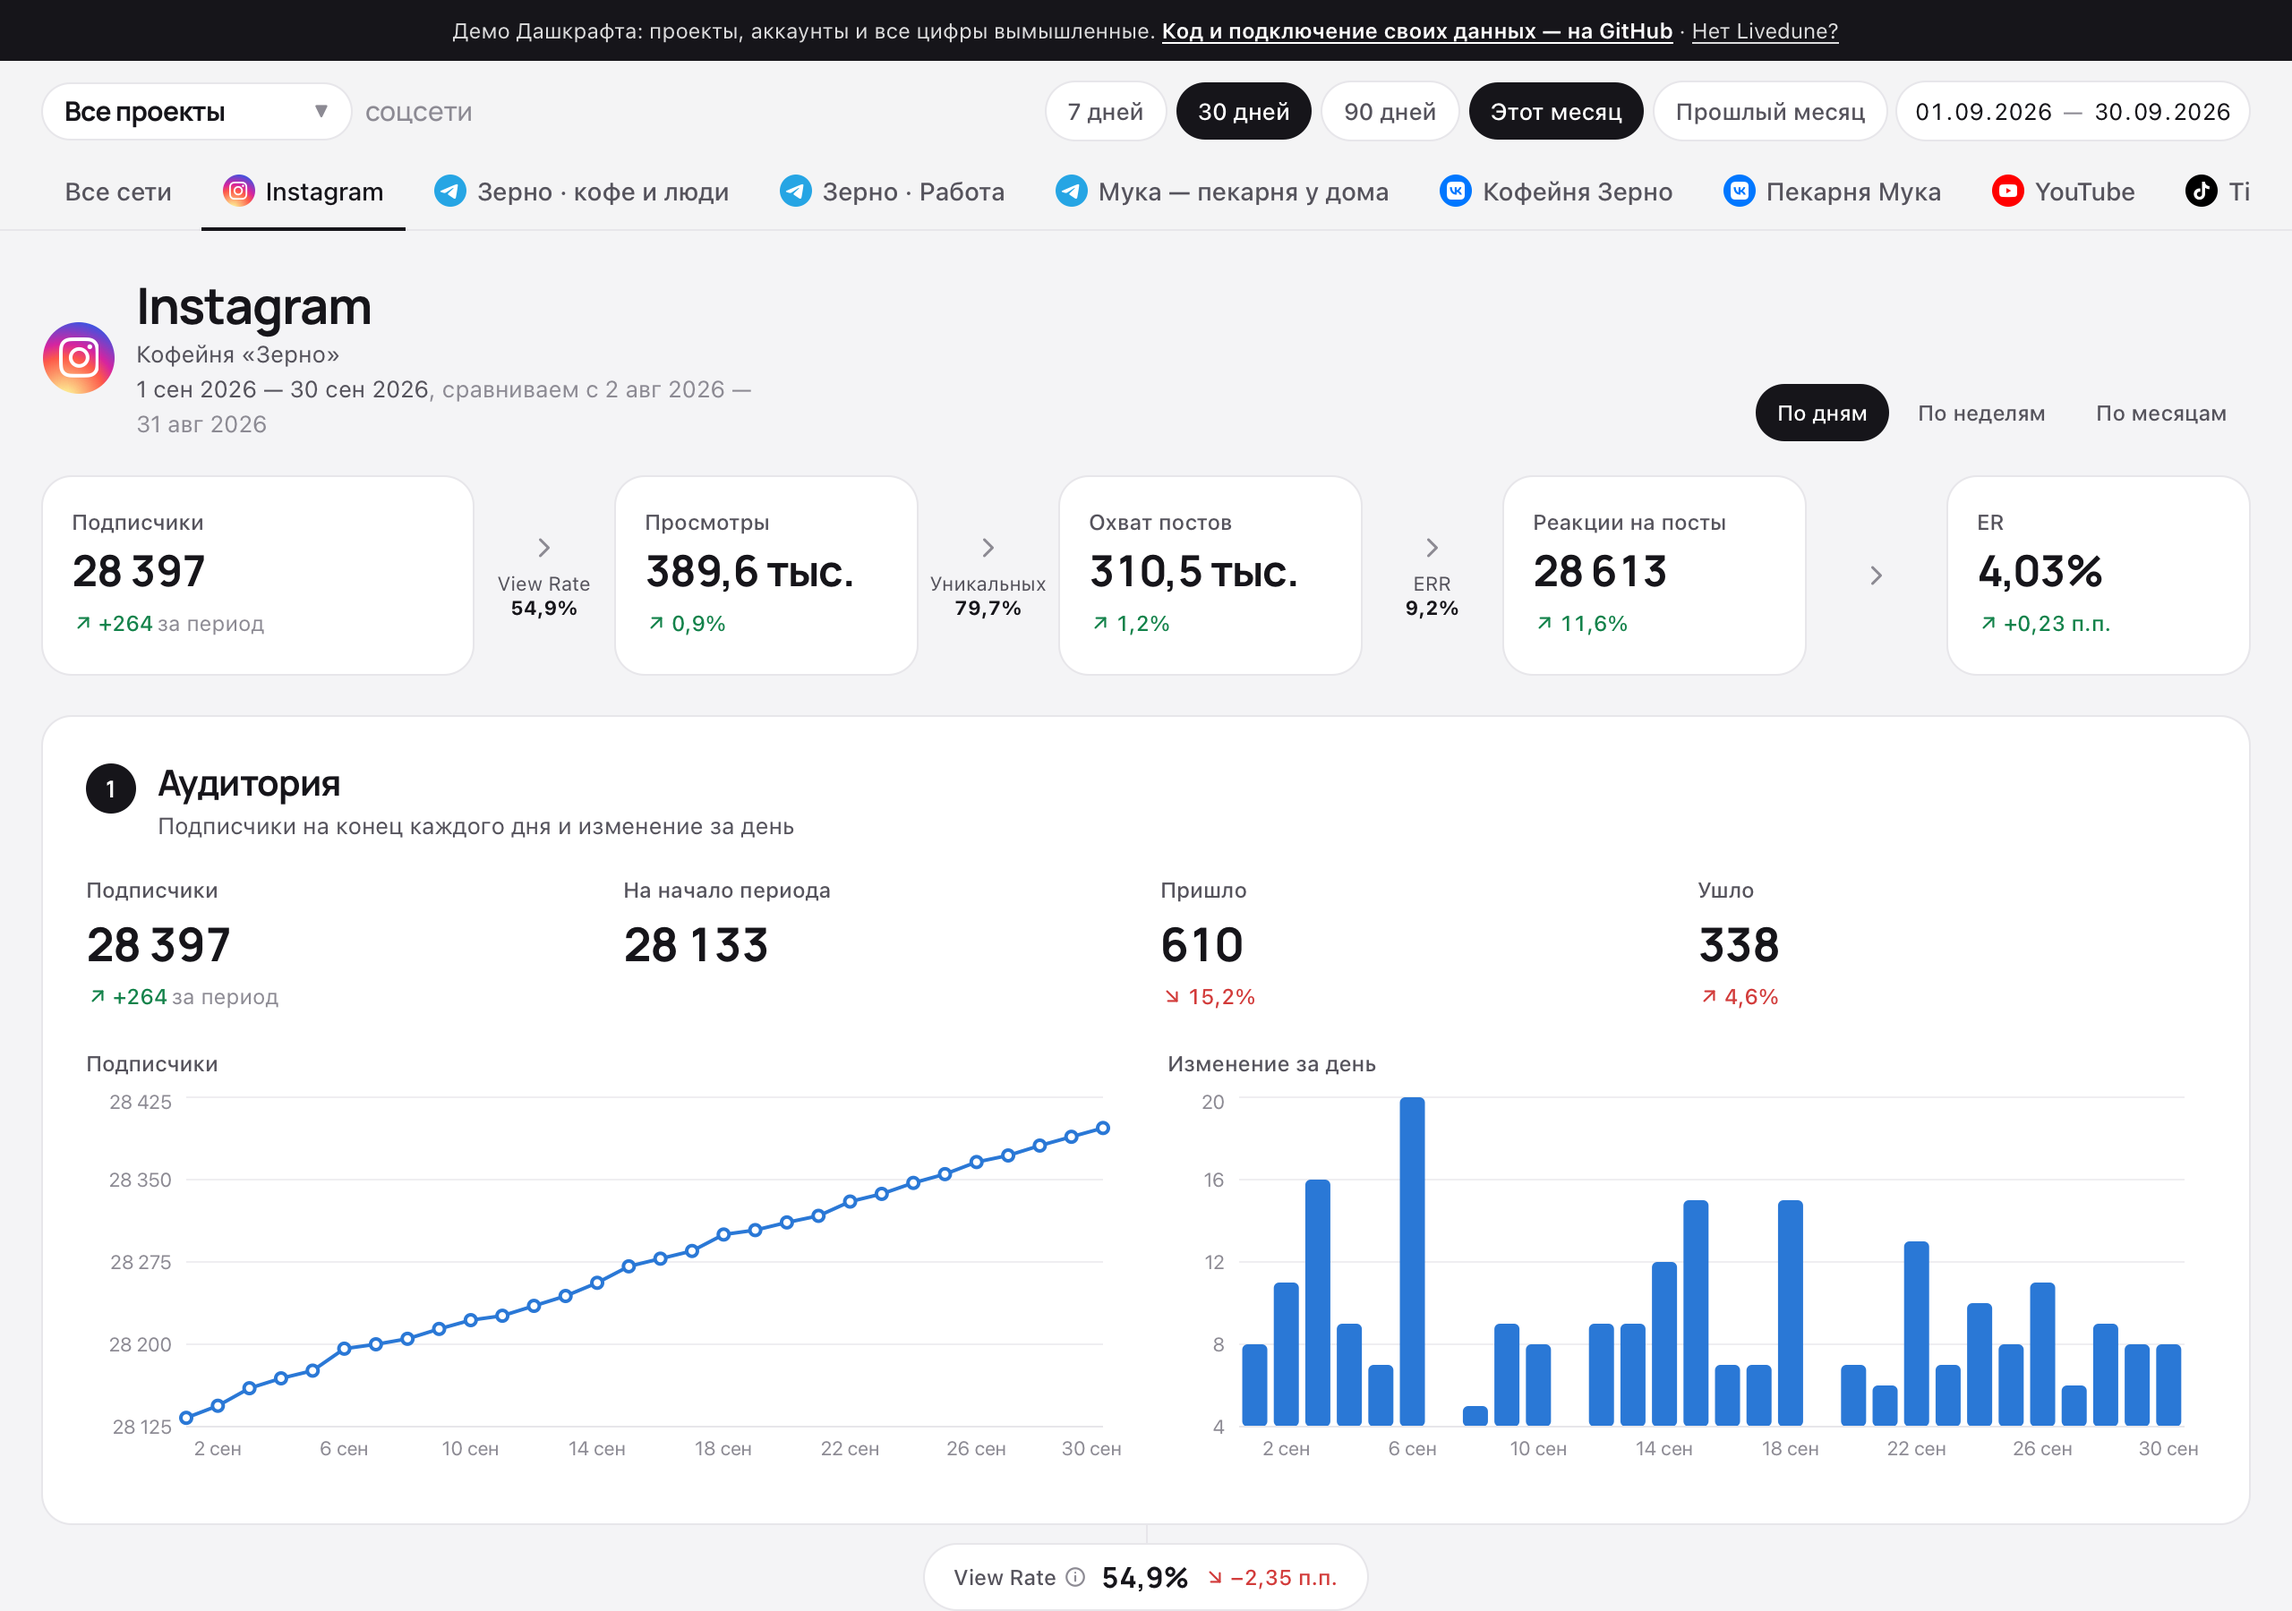
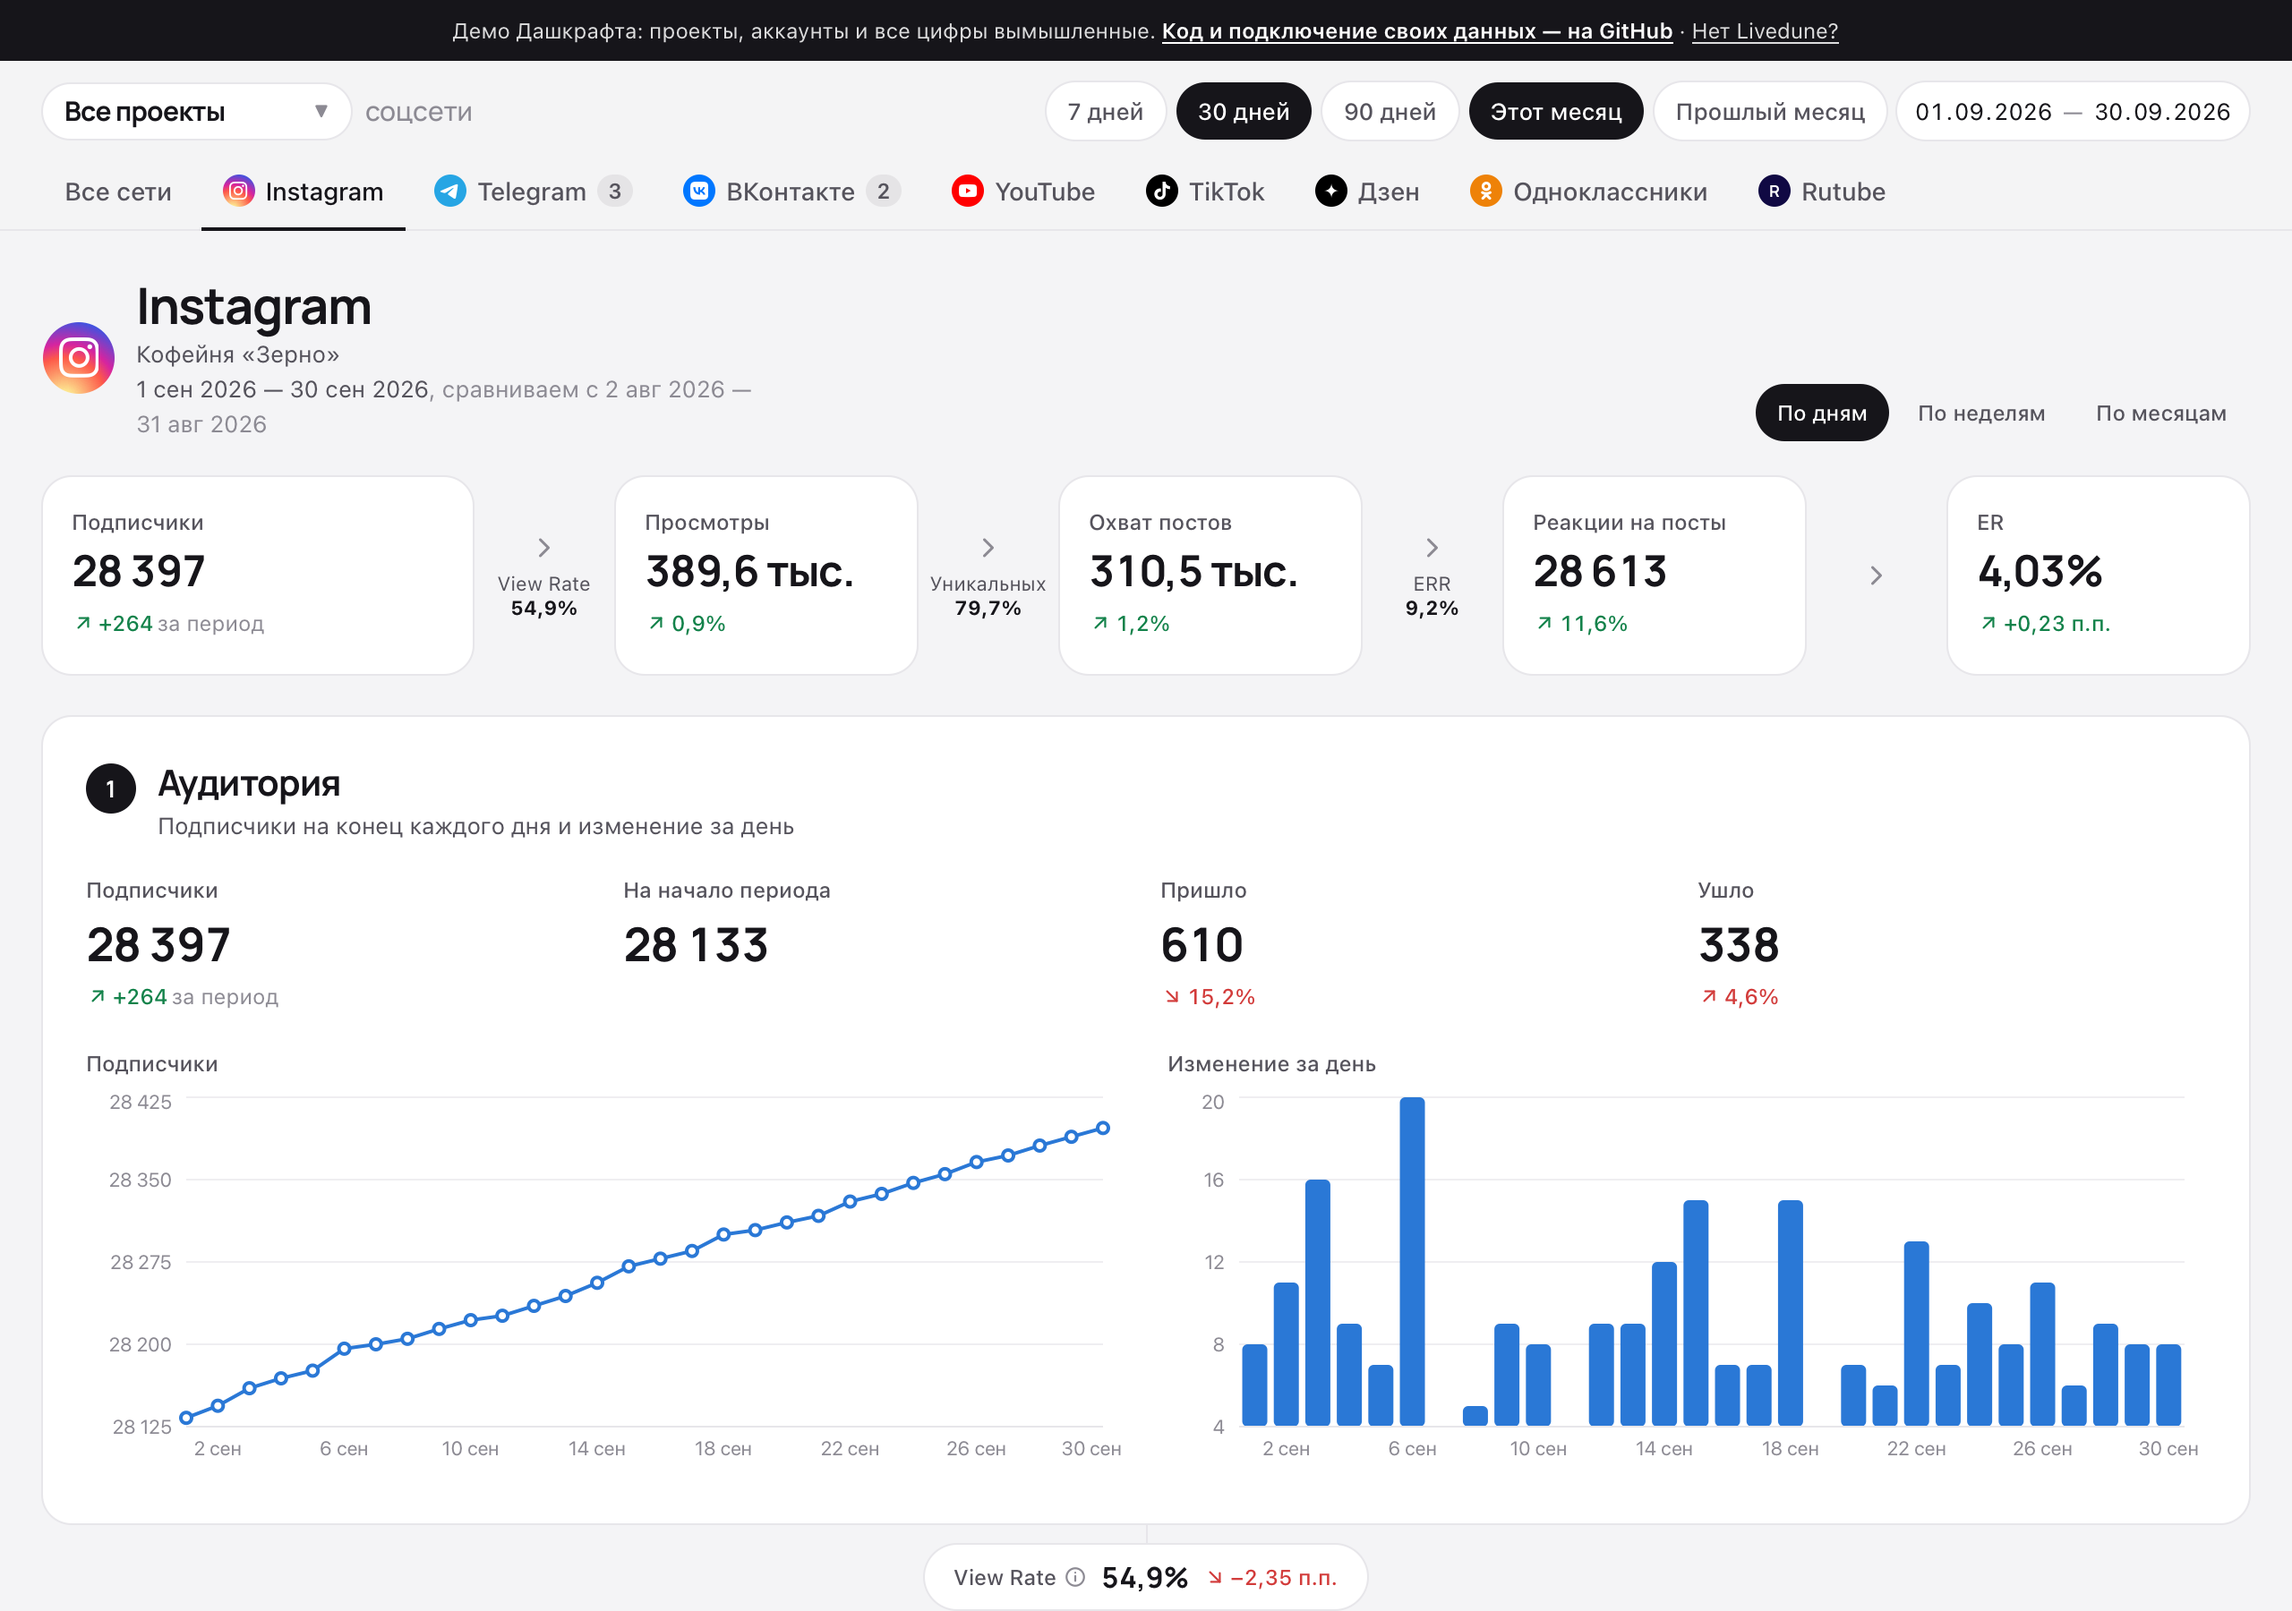
Шапка: одна вкладка на соцсеть и строка аккаунтов вместо прокрутки
Вкладки группируются по соцсетям, у сети с несколькими аккаунтами — число на вкладке
и строка кнопок аккаунтов под шапкой. Вкладки переносятся на новую строку, а не уезжают за край.

Changed region(s): [[0.2188, 0.0933, 0.8438, 0.1244], [0.875, 0.0933, 0.9688, 0.1244]]

diff --git a/components/Header.tsx b/components/Header.tsx
@@ -128,16 +128,14 @@ export function Header({ title, canRefresh, accounts }: HeaderProps) {
     startTransition(() => router.push(href));
   };
 
-  const nav = [
-    { href: "/", label: "Все сети", slug: null, title: undefined as string | undefined },
-    ...(tabs ?? NETWORKS.slice(0, 6).map((n) => ({ href: `/${n.slug}`, label: n.label, slug: n.slug, name: n.label }))).map((t) => ({
-      href: t.href,
-      label: t.label,
-      slug: t.slug,
-      title: t.name !== t.label ? t.name : undefined,
-    })),
-  ];
+  // Одна вкладка на соцсеть; если аккаунтов несколько — число на вкладке и строка аккаунтов под ней
+  const list = tabs ?? NETWORKS.slice(0, 6).map((n) => ({ id: 0, href: `/${n.slug}`, slug: n.slug, network: n.label, name: n.label, label: n.label, shared: false }));
+  const groups = new Map<string, typeof list>();
+  for (const t of list) groups.set(t.slug, [...(groups.get(t.slug) ?? []), t]);
   const path = pathname.replace(/\/$/, "") || "/";
+  const inNetwork = (slug: string) => path === `/${slug}` || path.startsWith(`/${slug}/`);
+  const current = [...groups.entries()].find(([slug]) => inNetwork(slug));
+  const siblings = current && current[1].length > 1 ? current[1] : null;
 
   return (
     <header className="z-20 sm:sticky sm:top-0 border-b border-line bg-bg/90 backdrop-blur">
@@ -211,25 +209,62 @@ export function Header({ title, canRefresh, accounts }: HeaderProps) {
             {canRefresh && <RefreshButton state={refresh} disabled={busy || !!task} onClick={onRefresh} fetchedAt={info.fetchedAt} />}
           </div>
         </div>
-        <nav className="-mb-px mt-2 flex gap-1 overflow-x-auto">
-          {nav.map((t) => {
-            const active = path === t.href;
-            return (
-              <Link
-                key={t.href}
-                href={t.href + qs}
-                className={`flex shrink-0 items-center gap-1.5 border-b-2 px-3 py-2.5 text-[14px] font-medium transition-colors ${
-                  active ? "border-ink text-ink" : "border-transparent text-ink-2 hover:text-ink"
-                }`}
-              >
-                {t.slug && <NetworkIcon slug={t.slug} size={18} />}
-                <span className="max-w-[200px] truncate" title={t.title}>{t.label}</span>
-              </Link>
-            );
-          })}
+        {/* Вкладки переносятся на новую строку, а не уезжают за край: все сети видны сразу */}
+        <nav className="-mb-px mt-2 flex flex-wrap gap-x-1" aria-label="Соцсети">
+          <NavTab href={"/" + qs} active={path === "/"}>
+            Все сети
+          </NavTab>
+          {[...groups.entries()].map(([slug, own]) => (
+            <NavTab key={slug} href={own[0].href + qs} active={inNetwork(slug)}>
+              <NetworkIcon slug={slug} size={18} />
+              {own[0].network}
+              {own.length > 1 && (
+                <span className="rounded-full bg-ink/[0.07] px-1.5 text-[12px] font-semibold tabular text-ink-2" aria-label={`${own.length} аккаунта`}>
+                  {own.length}
+                </span>
+              )}
+            </NavTab>
+          ))}
         </nav>
       </div>
+      {siblings && (
+        <div className="border-t border-line bg-surface/60">
+          <div className="mx-auto flex max-w-[1280px] flex-wrap items-center gap-1.5 px-4 py-2 sm:px-6" role="group" aria-label={`Аккаунты ${siblings[0].network}`}>
+            <span className="mr-1 text-[12px] text-ink-3">Аккаунты:</span>
+            {siblings.map((t, i) => {
+              const active = path === t.href || (i === 0 && path === `/${t.slug}/${t.id}`);
+              return (
+                <Link
+                  key={t.id}
+                  href={t.href + qs}
+                  aria-current={active ? "page" : undefined}
+                  className={`max-w-[260px] truncate rounded-full px-3 py-1 text-[13px] font-medium transition-[color,background-color,scale] active:scale-[0.96] ${
+                    active ? "bg-ink text-white" : "bg-surface text-ink-2 ring-1 ring-line hover:text-ink"
+                  }`}
+                  title={t.name}
+                >
+                  {t.name}
+                </Link>
+              );
+            })}
+          </div>
+        </div>
+      )}
     </header>
+  );
+}
+
+function NavTab({ href, active, children }: { href: string; active: boolean; children: React.ReactNode }) {
+  return (
+    <Link
+      href={href}
+      aria-current={active ? "page" : undefined}
+      className={`flex shrink-0 items-center gap-1.5 border-b-2 px-3 py-2.5 text-[14px] font-medium transition-colors ${
+        active ? "border-ink text-ink" : "border-transparent text-ink-2 hover:text-ink"
+      }`}
+    >
+      {children}
+    </Link>
   );
 }
 

diff --git a/lib/accounts.ts b/lib/accounts.ts
@@ -9,6 +9,7 @@ export type AccountBrief = Pick<RawAccount, "id" | "type" | "name" | "project">;
 export type AccountTab = {
   id: number;
   slug: Slug;
+  network: string; // название соцсети: «Telegram»
   name: string; // название аккаунта в Livedune
   label: string; // подпись вкладки: «Telegram», а если каналов несколько — название канала
   href: string; // первый аккаунт сети — /telegram, остальные — /telegram/<id>
@@ -37,6 +38,7 @@ export function listTabs(accounts: Pick<RawAccount, "id" | "type" | "name">[]): 
     return own.map((a, i) => ({
       id: a.id,
       slug,
+      network: networkForType(a.type).label,
       name: a.name,
       label: own.length > 1 ? a.name : networkForType(a.type).label,
       href: accountHref(slug, a.id, i === 0),
